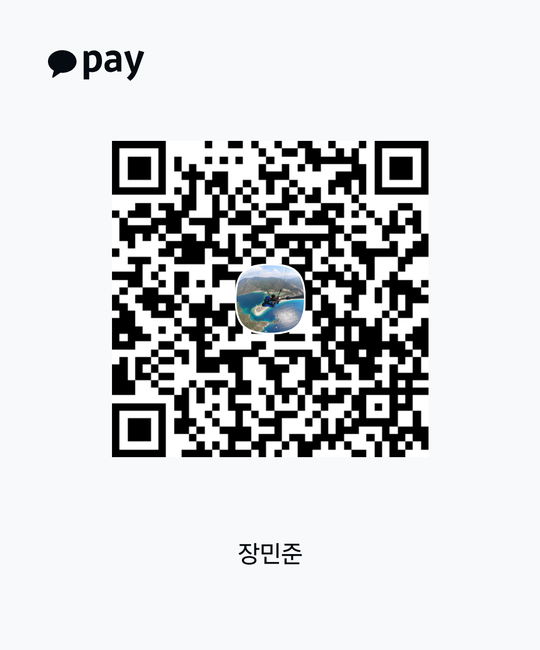
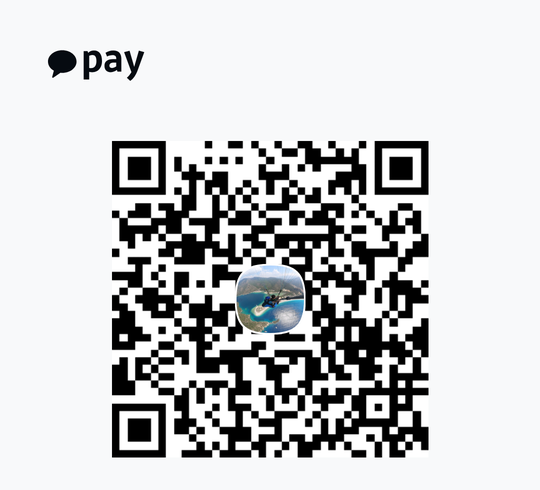
Support QR: crop out the account holder name

Changed region(s): [[0.2074, 0.2143, 0.8, 0.949], [0.0889, 0.0612, 0.2667, 0.1837]]

diff --git a/frontend/src/components/SupportModal.tsx b/frontend/src/components/SupportModal.tsx
@@ -31,7 +31,7 @@ export function SupportModal({ open, onClose }: SupportModalProps) {
     >
       <div className="support">
         <p className="support__title font-pixel-ko">AI 토큰값과 서버비 후원하기</p>
-        <img className="support__qr" src={SUPPORT_QR_SRC} alt="카카오페이 후원 QR 코드" width={270} height={325} />
+        <img className="support__qr" src={SUPPORT_QR_SRC} alt="카카오페이 후원 QR 코드" width={270} height={245} />
         {KAKAOPAY_URL && (
           <a className="support__link" href={KAKAOPAY_URL} target="_blank" rel="noreferrer noopener">
             카카오페이 앱에서 바로 열기 →
